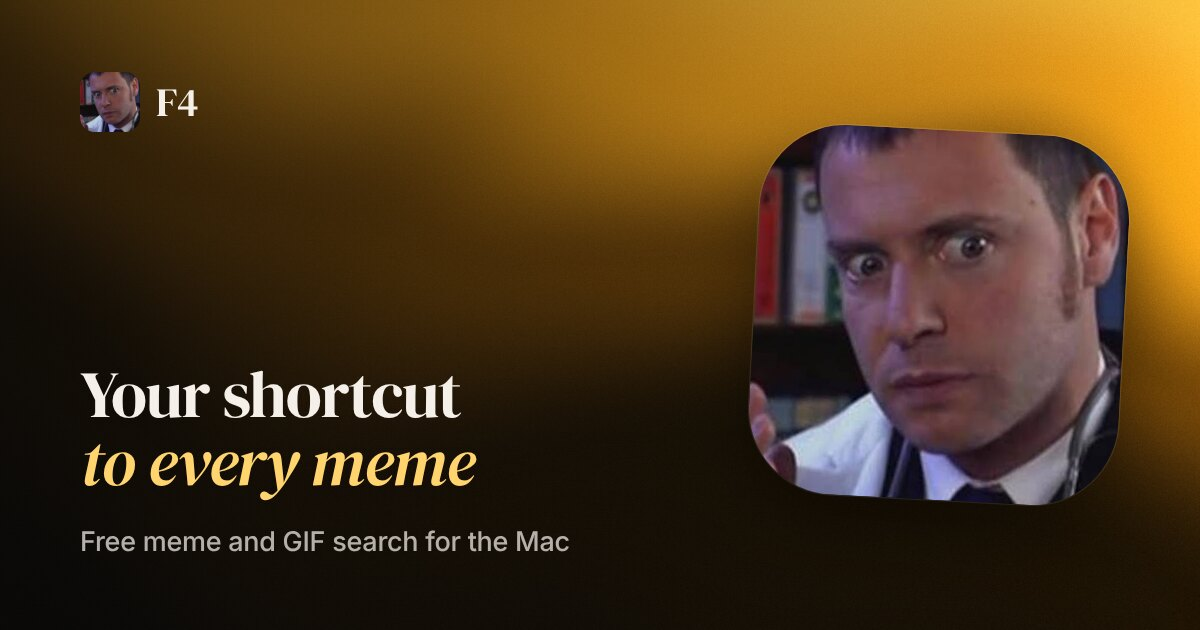
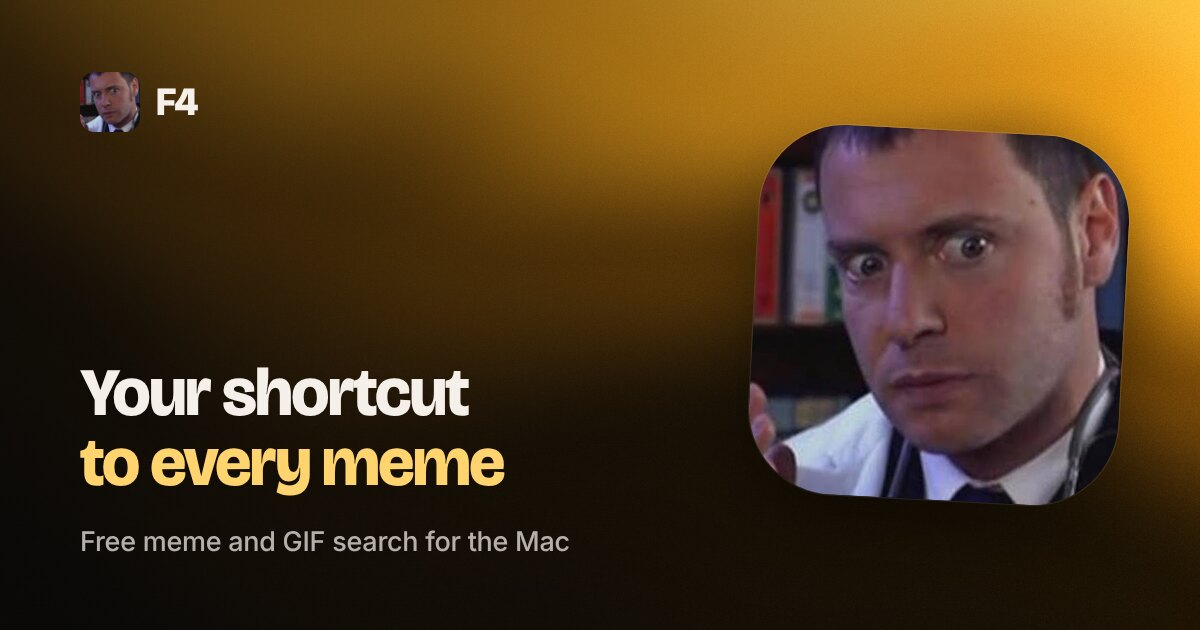
feat(site): set the social cards in bricolage grotesque
Claude-Session: https://claude.ai/code/session_01NzgfqP2ZHRiEdnMaEspfQM

Changed region(s): [[0.0617, 0.6937, 0.4317, 0.8143], [0.0617, 0.573, 0.4008, 0.6635], [0.1233, 0.1206, 0.185, 0.181]]

diff --git a/scripts/og/og.html b/scripts/og/og.html
@@ -1,22 +1,21 @@
 <!doctype html>
 <!-- Social preview cards (og.jpg, og-it.jpg), rendered by scripts/render-og.mjs.
      #it switches the copy to Italian.
-     DM Serif Display is by Colophon Foundry, SIL Open Font License 1.1 (site/fonts/). -->
+     Bricolage Grotesque is by Ateliertriay, SIL Open Font License 1.1 (site/fonts/). -->
 <html>
 <head>
 <meta charset="utf-8">
 <style>
-  @font-face { font-family: "DM Serif Display"; font-weight: 400; src: url(../../site/fonts/dm-serif-display-latin-400.woff2) format("woff2"); }
-  @font-face { font-family: "DM Serif Display"; font-weight: 400; font-style: italic; src: url(../../site/fonts/dm-serif-display-latin-400-italic.woff2) format("woff2"); }
+  @font-face { font-family: "Bricolage Grotesque"; font-weight: 200 800; src: url(../../site/fonts/bricolage-grotesque-latin.wght.woff2) format("woff2"); }
   html, body { margin: 0; background: #0a0908; }
   #card { position: relative; width: 1200px; height: 630px; overflow: hidden; font-family: Inter, -apple-system, system-ui, sans-serif; color: #f4efe9; }
   .grainient, .grainient canvas { position: absolute; inset: 0; width: 100%; height: 100%; display: block; }
   .shade { position: absolute; inset: 0; background: linear-gradient(90deg, rgb(10 9 8 / 72%) 0%, rgb(10 9 8 / 35%) 55%, rgb(10 9 8 / 0%) 100%); }
   .copy { position: absolute; left: 80px; top: 72px; bottom: 72px; width: 640px; display: flex; flex-direction: column; }
-  .brand { display: flex; align-items: center; gap: 16px; font-family: "DM Serif Display", serif; font-weight: 400; font-size: 40px; letter-spacing: -0.01em; }
+  .brand { display: flex; align-items: center; gap: 16px; font-family: "Bricolage Grotesque", sans-serif; font-weight: 800; font-variation-settings: "opsz" 96; font-size: 40px; letter-spacing: -0.03em; }
   .brand img { width: 60px; height: 60px; border-radius: 15px; object-fit: cover; }
-  h1 { margin: auto 0 0; font-family: "DM Serif Display", serif; font-weight: 400; font-size: 66px; line-height: 1.04; letter-spacing: -0.02em; }
-  h1 span { display: block; font-style: italic; color: #ffd36e; }
+  h1 { margin: auto 0 0; font-family: "Bricolage Grotesque", sans-serif; font-weight: 800; font-variation-settings: "opsz" 96; font-size: 68px; line-height: 1.02; letter-spacing: -0.03em; }
+  h1 span { display: block; color: #ffd36e; }
   p { margin: 28px 0 0; font-weight: 500; font-size: 27px; color: rgb(244 239 233 / 72%); letter-spacing: -0.01em; }
   .face { position: absolute; right: 76px; top: 50%; width: 370px; height: 370px; transform: translateY(-50%) rotate(3deg);
           border-radius: 86px; overflow: hidden; box-shadow: 0 30px 80px rgb(0 0 0 / 45%), 0 0 0 1px rgb(255 255 255 / 14%); }

diff --git a/AGENTS.md b/AGENTS.md
@@ -29,7 +29,7 @@ F4 is a native macOS app, a Spotlight-like floating panel to search a local fold
 | `Resources/Starter/GIFs`, `scripts/make-stickers.swift` | The starter pack: Noto Animated Emoji GIFs (CC BY 4.0) and stickers drawn at build time. `build-app.sh` puts both in `F4.app/Contents/Resources/Starter`; `MemeLibrary` lists them after the user's memes |
 | `scripts/make-icon.swift` | Draws the app icon (the F4 keycap logo) in code; no image is committed |
 | `scripts/dmg-background/`, `scripts/render-dmg-background.mjs`, `Resources/dmg/` | The DMG background: the website hero (its Grainient gradient, colours and headline) as a 660×420 page, screenshotted with Playwright into `Resources/dmg/background.png` and `@2x`. The PNGs are committed because CoreGraphics can't redraw the shader and CI should not need a browser; after changing the page run `npm i -D playwright && npx playwright install chromium` and `node scripts/render-dmg-background.mjs --preview`, look at `.build/dmg-preview.png`, commit the PNGs. Icon positions and the window size must match `build-dmg.sh` |
-| `scripts/og/og.html`, `scripts/render-og.mjs` | The social preview cards `site/og.jpg` and `site/og-it.jpg` (1200×630), copied from maramao's: the Grainient gradient, DM Serif Display, the logo. Run `node scripts/render-og.mjs` (Playwright and ImageMagick), look at both JPEGs, commit them |
+| `scripts/og/og.html`, `scripts/render-og.mjs` | The social preview cards `site/og.jpg` and `site/og-it.jpg` (1200×630), copied from maramao's: the Grainient gradient in F4's yellow, Bricolage Grotesque, the Stanis face as logo. Run `node scripts/render-og.mjs` (Playwright and ImageMagick), look at both JPEGs, commit them |
 | `scripts/check-strings.py` | CI check: every string in the String Catalog has an Italian translation |
 | `scripts/update-appcast.py` | Adds a release to the Sparkle appcast (`site/appcast.xml`) |
 | `site/` | The project website (static HTML, CSS and a little vanilla JS, no build step), deployed to GitHub Pages. A twin of Maramao's site (kkratterf/maramao): same layout, components and `styles.css` structure, F4's yellow instead of Maramao's tomato. English at `index.html` and `faq/`, Italian at `it/` and `it/faq/` (`faq.html` only redirects); `site.js` (hero demo, tabs, FAQ accordion, version and stars), `grainient.js` (the WebGL hero background, the same file as Maramao's), `fonts/` (Bricolage Grotesque, OFL); it also hosts `appcast.xml`, `llms.txt`, `llms-full.txt` and `logo.svg` (the keycap logo, also used by the README). Change a page in both languages |
